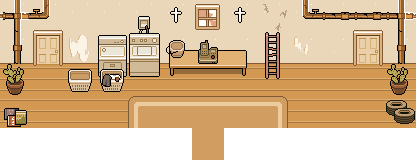
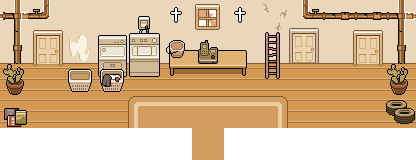
Four doors the tile art never painted
KIM'S HOUSE (DAY) draws one of its three hallway doors and leaves the other
two as bare wallpaper; VANCE'S HOUSE does the same with its middle door, day
and sunset; BASIL'S HOME (NIGHT) leaves out Basil's own. The events are all
there and all carry a door sprite, so the game shows a door and the render
does not — these maps are drawn from their tile layers, and the tile layers
have nothing at those spots. Every one of the 112 always-visible door events
was rendered out and looked at to find these four; the rest are painted.

The night door needed a second way of doing it. A night map is rendered
darker than the sheet it was drawn from, so the sprite composited straight
from !objects_fa_night_doors lands as a lit door on an unlit wall — 5,34,79
against the 4,23,54 of the doors beside it. `--copy-from` takes the pixels off
the map instead: the same door, already drawn correctly two tiles along, tone
and all. Its wallpaper matches the target's to the pixel, checked first.

The manifest was the reason none of this showed up. It globbed *.png at the
top of raw_pngs, so all 200 sliced house rooms were missing from it, stampPng
had nothing to stamp their URLs with, and every re-slice stayed invisible
behind the browser cache. rglob and a path key; 639 entries becomes 839.

Re-slicing also picked up a stale AUBREY'S HOUSE (SUNSET) room that still had
the editor's green DEV_TEST boxes over its ladder.

Claude-Session: https://claude.ai/code/session_01K5zeUeZ3Xi33fdXKCWAZDR

Changed region(s): [[0.6875, 0.1562, 0.7812, 0.4062]]

diff --git a/scripts/16_render_event_sprites.py b/scripts/16_render_event_sprites.py
@@ -14,6 +14,16 @@ MOLLY ROOM RIGHT 2 cost 361 tiles of holograms, computers and puzzle parts.
     python3 scripts/16_render_event_sprites.py 240
     python3 scripts/16_render_event_sprites.py 240 --events 1,3,24
     python3 scripts/16_render_event_sprites.py 240 --sprite DW_PuzzleObjects5
+    python3 scripts/16_render_event_sprites.py 80 --events 3 --copy-from 15,24
+
+`--copy-from` takes the pixels off the map instead of off the sheet. A night
+map is rendered darker than the sheet it was drawn from — BASIL'S HOME
+(NIGHT) paints its doors at roughly 0.68x the blue of !objects_fa_night_doors
+— so a sprite composited straight from the sheet lands as a lit door on an
+unlit wall. When the same sprite is already drawn correctly somewhere on the
+same map, that instance is the right source: give its tile and the block is
+lifted from the canvas, tone and all. The donor's background has to match the
+target's, which for a repeating wall it does; check before trusting it.
 
 For each event the *first page carrying the wanted sprite* is used, not page 0
 — Map240's pads sit on page 1 behind an invisible DEV_TEST placeholder on
@@ -221,6 +231,12 @@ def main():
     no_clip = '--no-clip' in args
     if no_clip:
         args.remove('--no-clip')
+    copy_from = None
+    if '--copy-from' in args:
+        i = args.index('--copy-from')
+        copy_from = tuple(int(v) for v in args[i + 1].split(','))
+        del args[i:i + 2]
+        no_clip = True          # lifting a finished block; nothing to trim
     if '--sprite' in args:
         i = args.index('--sprite')
         want_sprite = args[i + 1]
@@ -284,6 +300,20 @@ def main():
             frame = sprite_frame(img['characterName'], img.get('characterIndex', 0),
                                  img.get('direction', 2), img.get('pattern', 1))
             if frame is None:
+                continue
+            if copy_from:
+                # The sheet gives the size; the map gives the pixels.
+                dx, dy = copy_from
+                px = dx * TILE + TILE // 2 - frame.width // 2
+                py = (dy + 1) * TILE - frame.height
+                donor = canvas.crop((px, py, px + frame.width, py + frame.height))
+                ex, ey = ev['x'] - off_x, ev['y'] - off_y
+                canvas.alpha_composite(
+                    donor, (max(0, ex * TILE + TILE // 2 - donor.width // 2),
+                            max(0, (ey + 1) * TILE - donor.height)))
+                drawn += 1
+                print(f'  + map{map_id} ev{ev["id"]} "{ev.get("name","")}" '
+                      f'copied from tile ({dx},{dy}) to ({ev["x"]},{ev["y"]})')
                 continue
             box = content_box(frame)
             frame = frame.crop(box) if box else frame

diff --git a/scripts/35_png_manifest.py b/scripts/35_png_manifest.py
@@ -27,12 +27,19 @@ OUT = PNG_DIR / 'manifest.json'
 
 
 def rebuild():
-    """{filename: mtime as whole seconds}. Seconds are plenty — nothing here
-    changes twice in one second, and it keeps the file small."""
+    """{path: mtime as whole seconds}. Seconds are plenty — nothing here
+    changes twice in one second, and it keeps the file small.
+
+    The key is the path relative to raw_pngs, because that is what the pages
+    ask for: a sliced house room is `houses/map24_room0.png` and a top-level
+    render is `map24.png`. A `*.png`-only scan left all 200 room images out of
+    the manifest, so `stampPng` had nothing to stamp them with and every
+    re-slice stayed invisible behind the browser cache — Kim's two repainted
+    doors were sitting on disk while the stitcher drew last week's room."""
     if not PNG_DIR.is_dir():
         return {}
-    entries = {p.name: int(p.stat().st_mtime)
-               for p in sorted(PNG_DIR.glob('*.png'))}
+    entries = {p.relative_to(PNG_DIR).as_posix(): int(p.stat().st_mtime)
+               for p in sorted(PNG_DIR.rglob('*.png'))}
     OUT.write_text(json.dumps(entries, separators=(',', ':'), sort_keys=True))
     return entries
 
